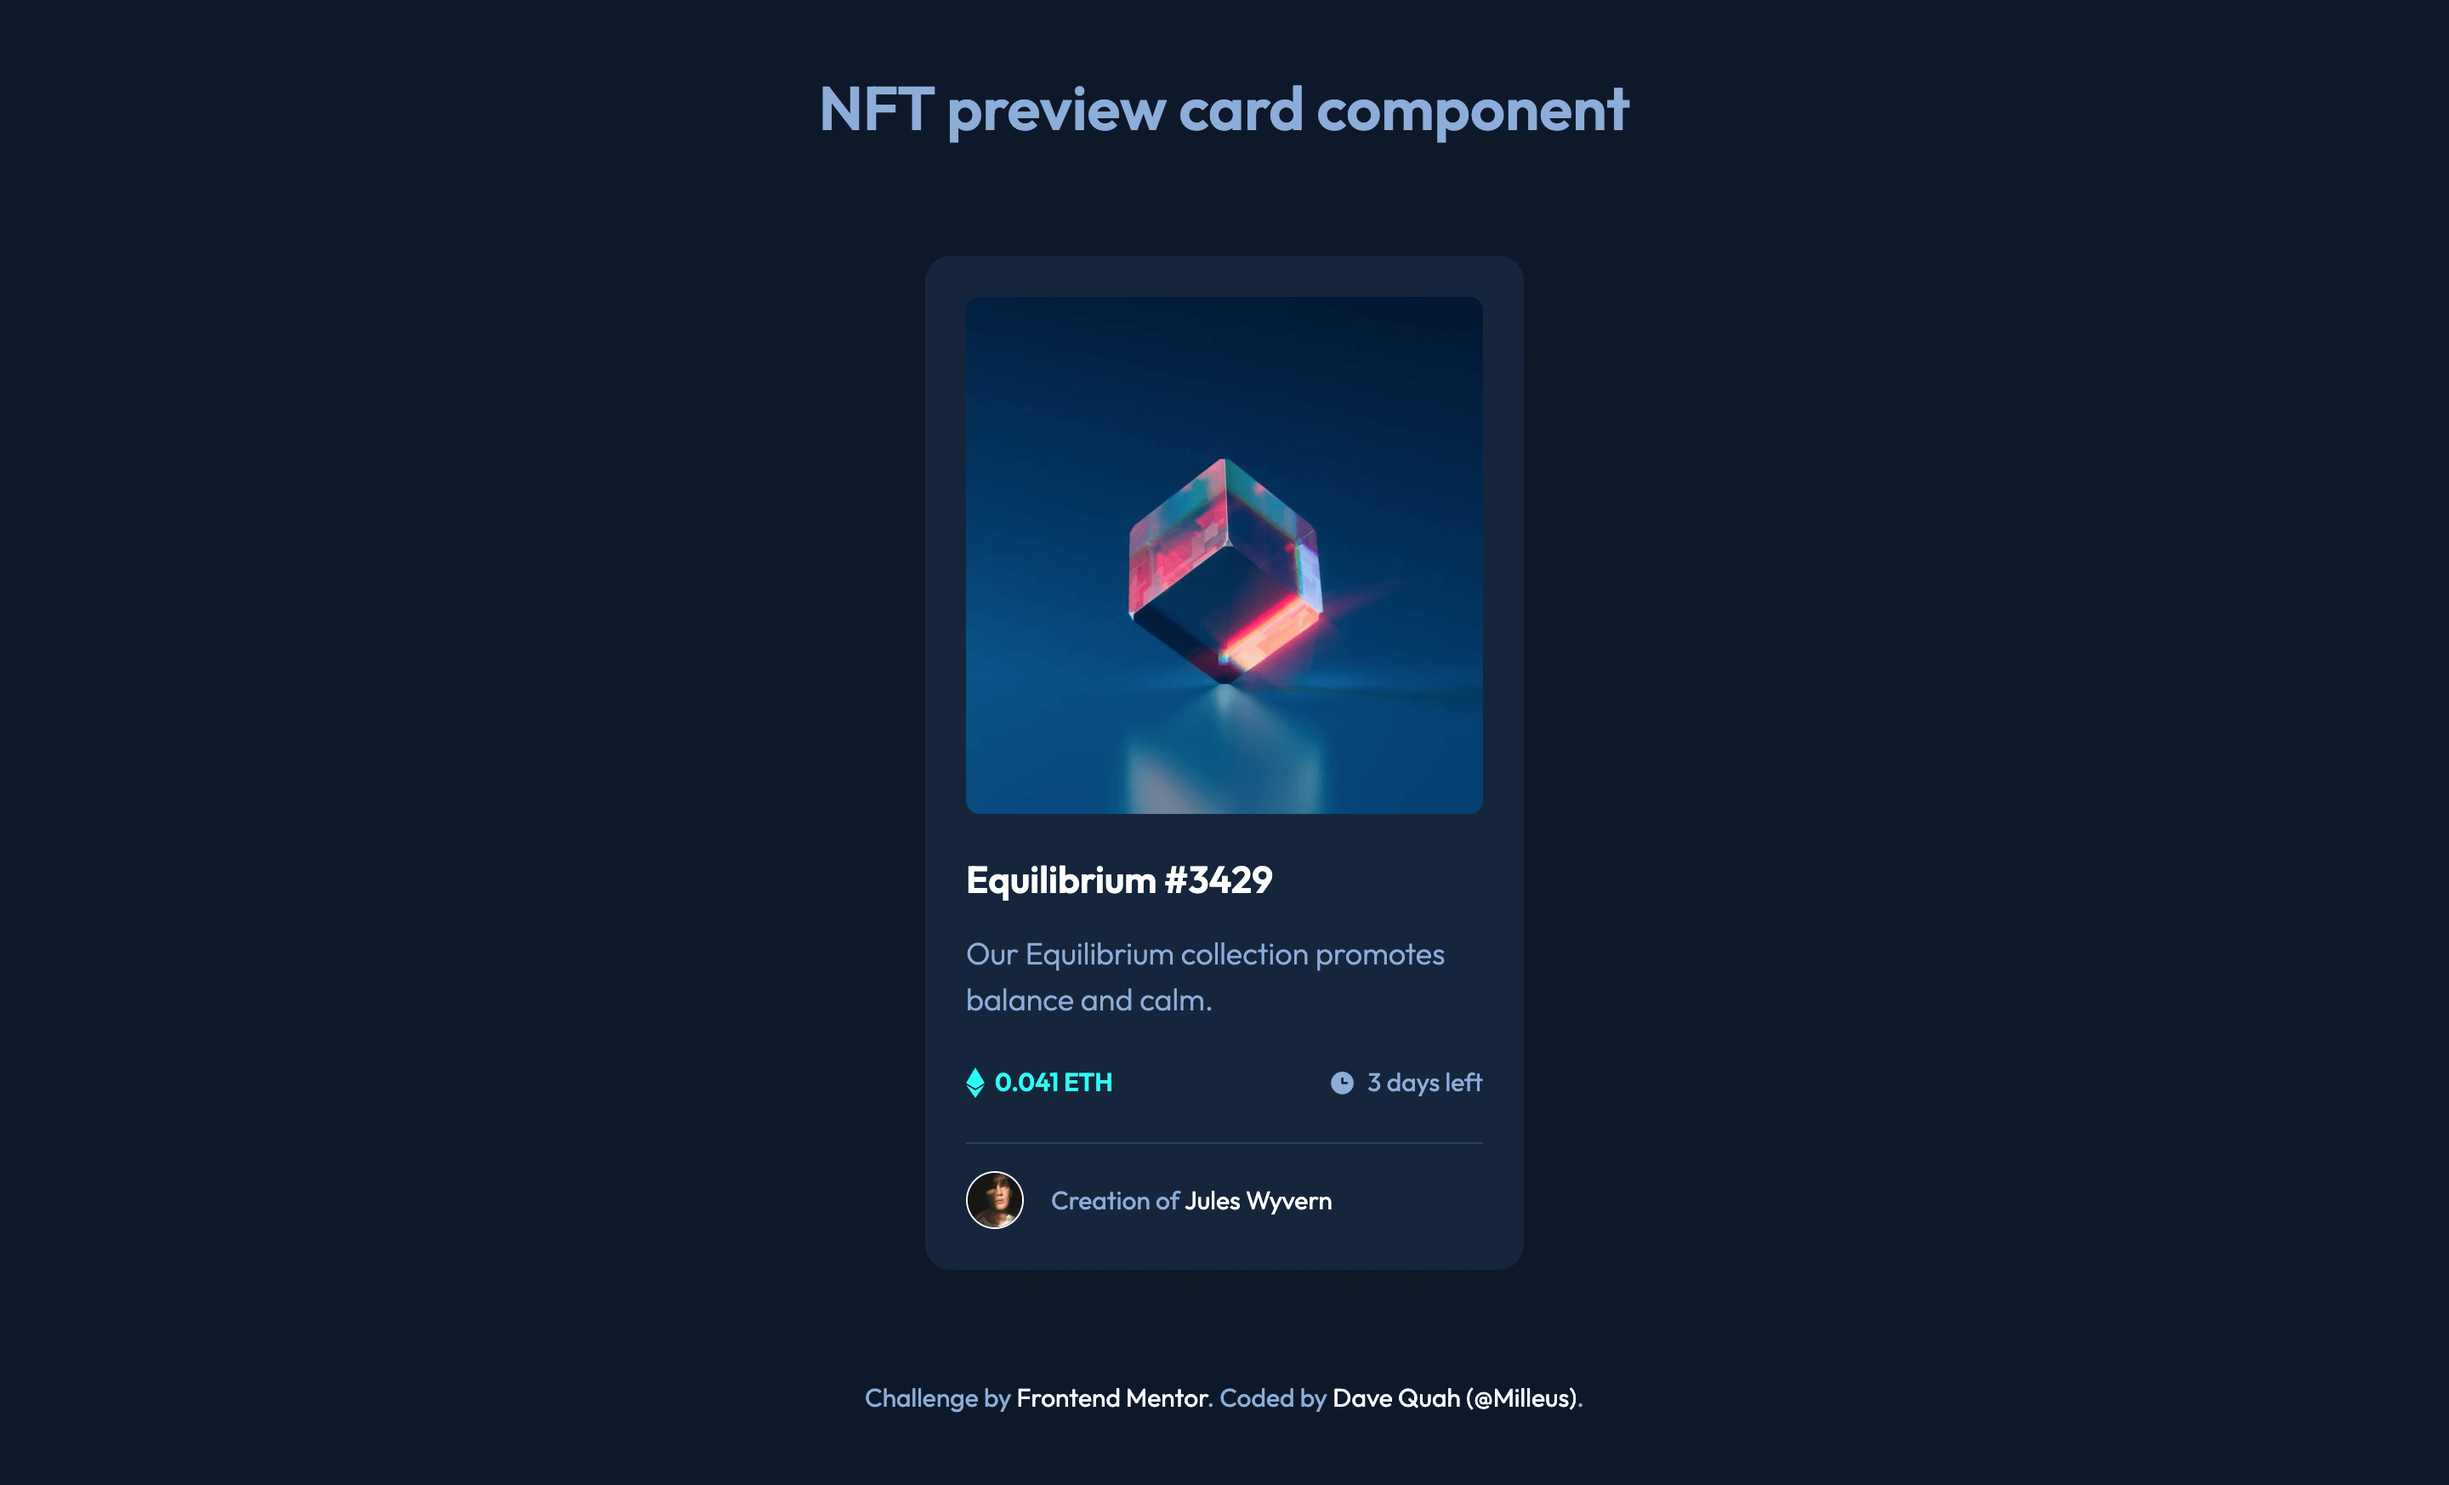
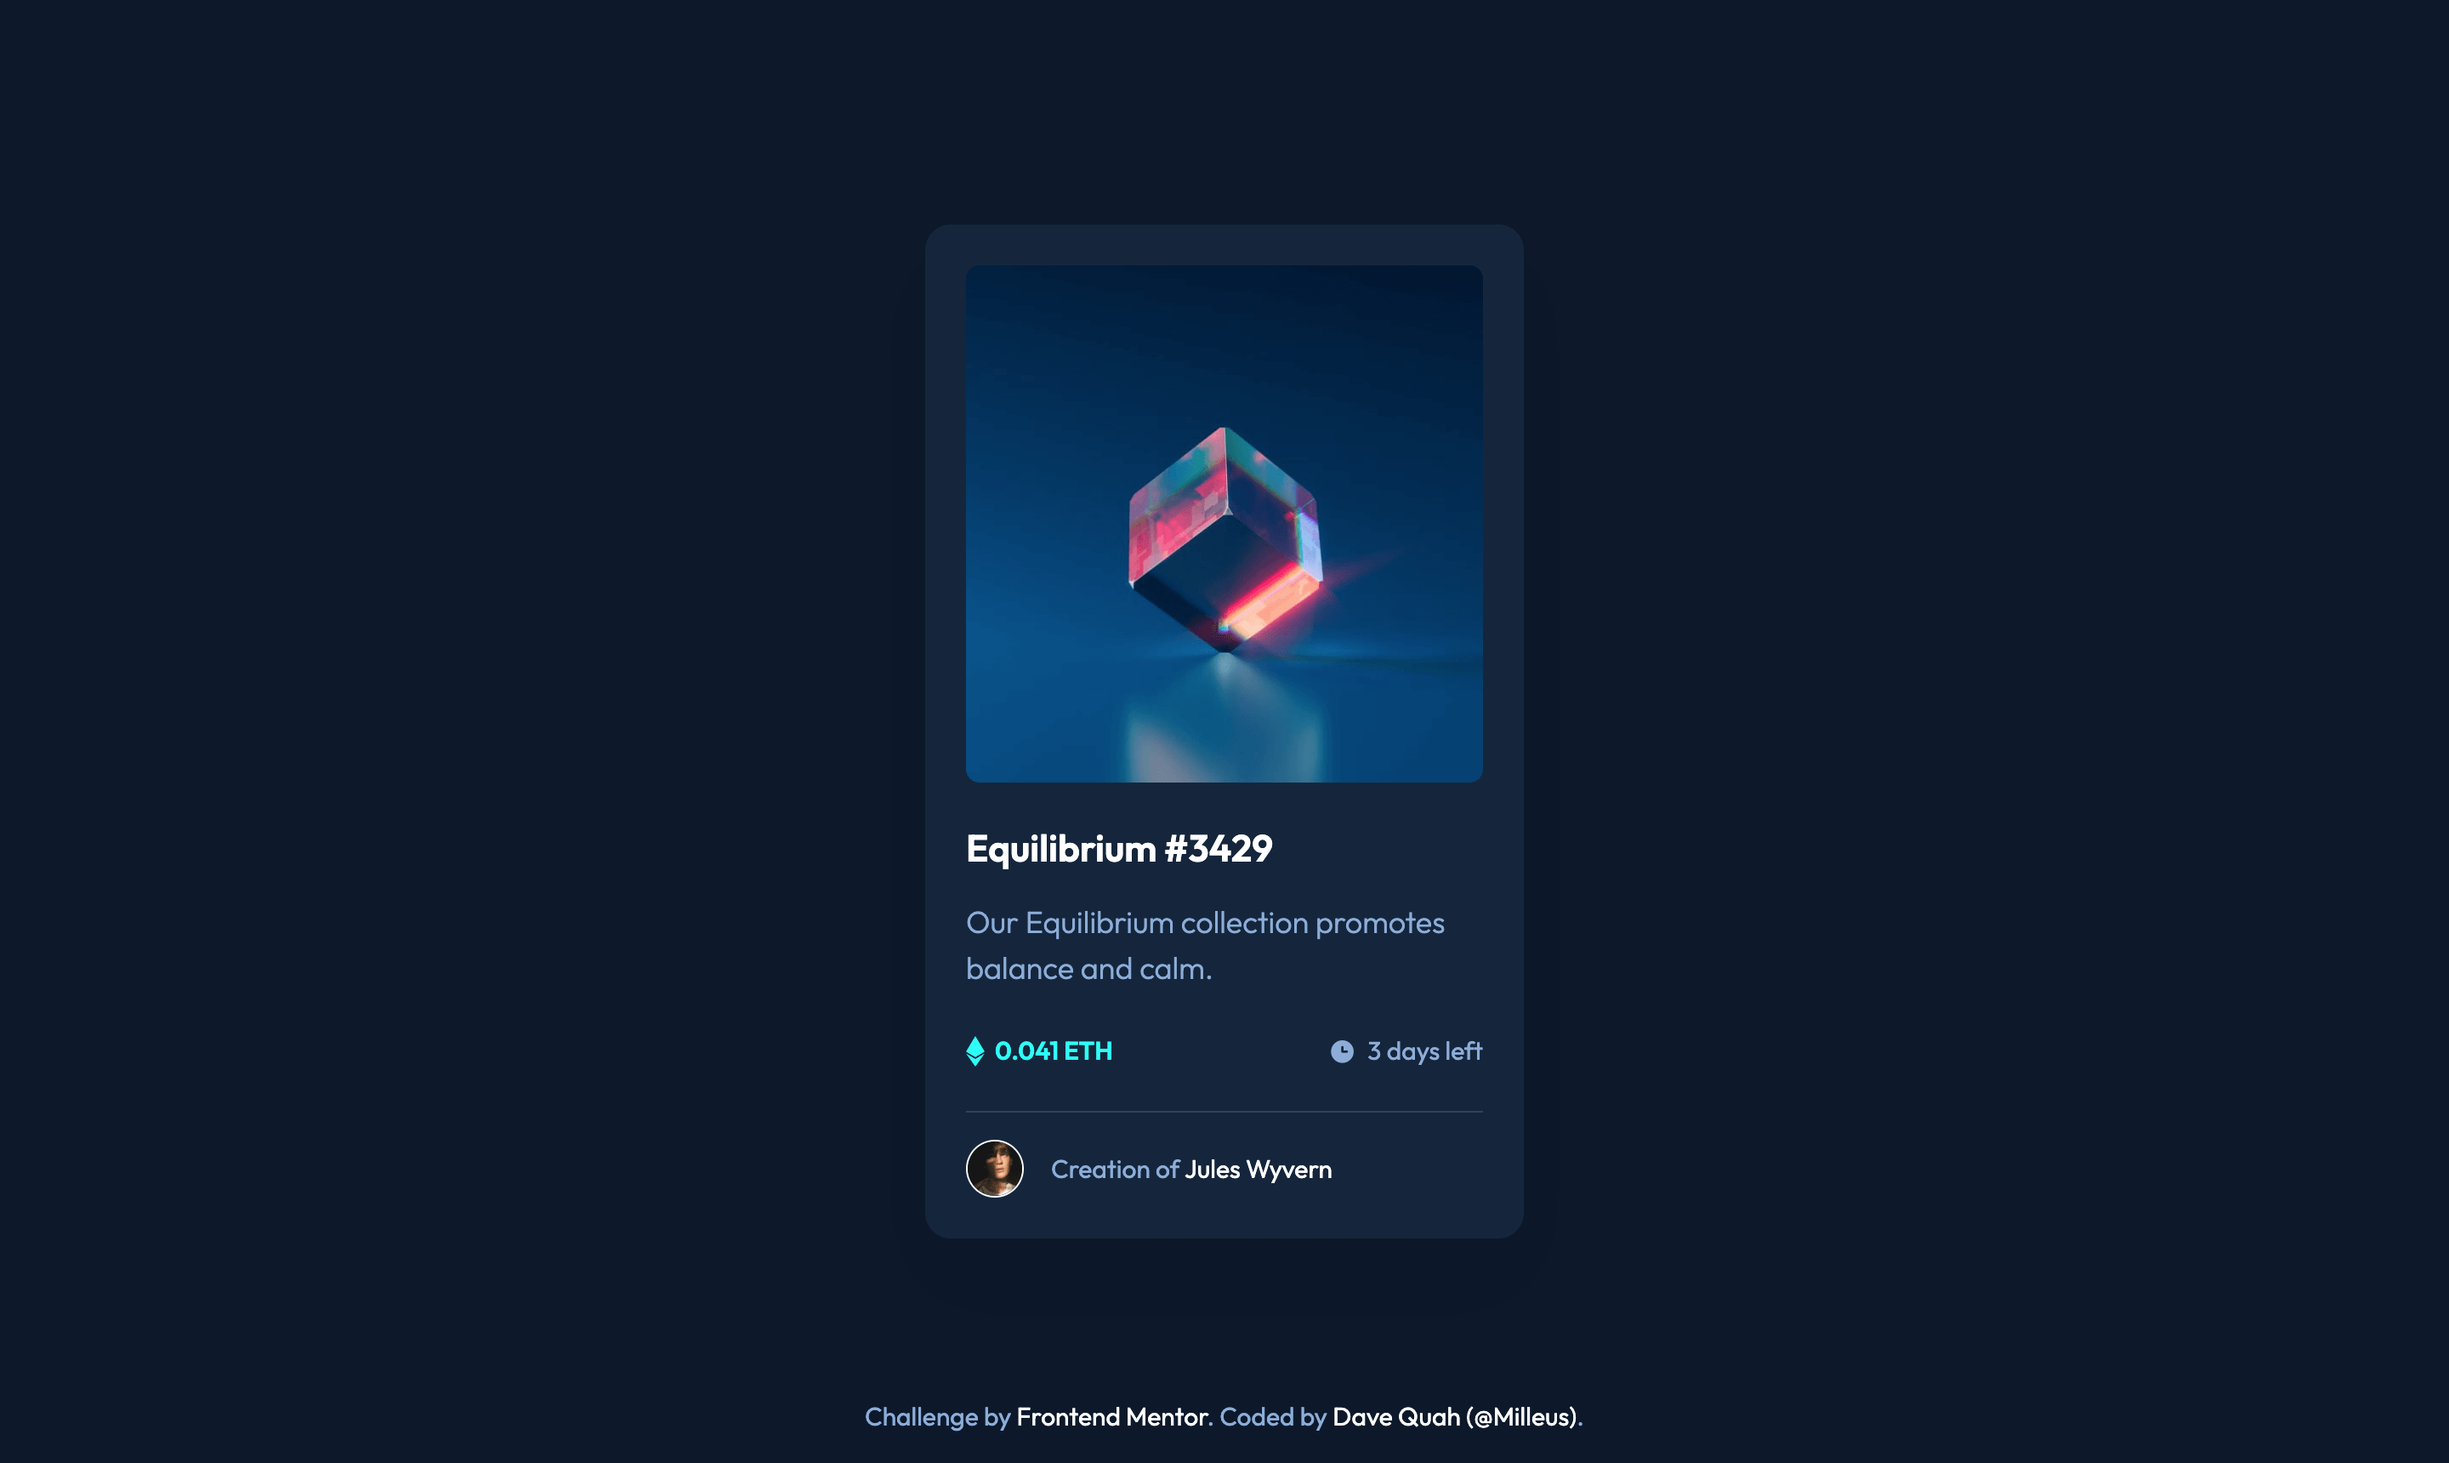
refactor: remove header

diff --git a/index.html b/index.html
@@ -26,47 +26,46 @@
 </head>
 
 <body>
-  <header class="text-neutral-800 text-center my-16">
-    <h1>NFT preview card component</h1>
-  </header>
+  <div class="container grid">
+    <main>
+      <h1 class="sr-only">NFT preview card component</h1>
+      <div class="card bg-blue-800">
+        <button>
+          <span class="sr-only">View Equilibrium #3429</span>
+        </button>
 
-  <main>
-    <div class="card bg-blue-800">
-      <button>
-        <span class="sr-only">View Equilibrium #3429</span>
-      </button>
+        <h2 class="fs-600 fw-600 mt-24"><a href="#">Equilibrium #3429</a></h2>
+        <p class="fw-300 mt-12 md-mt-16">Our Equilibrium collection promotes balance and calm.</p>
 
-      <h2 class="fs-600 fw-600 mt-24"><a href="#">Equilibrium #3429</a></h2>
-      <p class="fw-300 mt-12 md-mt-16">Our Equilibrium collection promotes balance and calm.</p>
+        <div class="card-details flex mt-16 md-mt-24">
+          <div class="flex">
+            <img src="/assets/icon-ethereum.svg" alt="">
+            <p class="fs-300 fw-600 text-cyan-400">0.041 ETH</p>
+          </div>
 
-      <div class="card-details flex mt-16 md-mt-24">
-        <div class="flex">
-          <img src="/assets/icon-ethereum.svg" alt="">
-          <p class="fs-300 fw-600 text-cyan-400">0.041 ETH</p>
+          <div class="flex">
+            <img src="/assets/icon-clock.svg" alt="">
+            <time class="fs-300 fw-500" datetime="PT72H00M">3 days left</time>
+          </div>
         </div>
 
-        <div class="flex">
-          <img src="/assets/icon-clock.svg" alt="">
-          <time class="fs-300 fw-500" datetime="PT72H00M">3 days left</time>
+        <div class="card-line mt-16 md-mt-24"></div>
+
+        <div class="card-creator flex mt-16">
+          <img src="/assets/image-avatar.png" alt="Jules Wyvern">
+          <p class="fs-300 fw-500">Creation of <a href="#">Jules Wyvern</a></p>
         </div>
       </div>
+    </main>
 
-      <div class="card-line mt-16 md-mt-24"></div>
-
-      <div class="card-creator flex mt-16">
-        <img src="/assets/image-avatar.png" alt="Jules Wyvern">
-        <p class="fs-300 fw-500">Creation of <a href="#">Jules Wyvern</a></p>
-      </div>
-    </div>
-  </main>
-
-  <footer class="text-neutral-800 text-center fs-300 fw-500 my-16">
-    <p>
-      Challenge by <a href="https://www.frontendmentor.io?ref=challenge" target="_blank" rel="noopener">Frontend
-        Mentor</a>.
-      Coded by <a href="https://www.frontendmentor.io/profile/Milleus">Dave Quah (@Milleus)</a>.
-    </p>
-  </footer>
+    <footer>
+      <p class="text-neutral-800 text-center fs-300 fw-500">
+        Challenge by <a href="https://www.frontendmentor.io?ref=challenge" target="_blank" rel="noopener">Frontend
+          Mentor</a>.
+        Coded by <a href="https://www.frontendmentor.io/profile/Milleus">Dave Quah (@Milleus)</a>.
+      </p>
+    </footer>
+  </div>
 </body>
 
 </html>

diff --git a/global.css b/global.css
@@ -61,14 +61,11 @@ body {
   min-height: 100vh;
   text-rendering: optimizeSpeed;
   line-height: 1.5;
-  display: grid;
-  place-items: center;
   font-family: var(--ff-sans);
   font-size: var(--fs-400);
   font-weight: var(--fw-400);
   color: hsl(var(--clr-blue-400));
   background-color: hsl(var(--clr-blue-900));
-  margin-inline: 1.5rem;
 }
 
 a {
@@ -123,7 +120,12 @@ h3 {
 /* ------------------- */
 .flex {
   display: flex;
-  gap: var(--gap, 1rem);
+  gap: var(--flex-gap, 1rem);
+}
+
+.grid {
+  display: grid;
+  gap: var(--grid-gap, 1rem);
 }
 
 /* ------------------- */
@@ -169,9 +171,6 @@ h3 {
   font-weight: var(--fw-600);
 }
 
-.my-16 {
-  margin-block: 1rem;
-}
 .mt-12 {
   margin-top: 0.75rem;
 }
@@ -197,6 +196,27 @@ h3 {
 /* ------------------- */
 /* Block               */
 /* ------------------- */
+.container {
+  place-items: center;
+  grid-template-rows: 1fr auto 1fr;
+  grid-template-areas:
+    "header"
+    "main"
+    "footer";
+  min-height: 100vh;
+  min-width: fit-content;
+  padding: 1rem 1.5rem;
+}
+
+.container > main {
+  grid-area: main;
+}
+
+.container > footer {
+  grid-area: footer;
+  align-self: end;
+}
+
 .card {
   width: min(100%, 20rem);
   padding: 1.5rem;
@@ -244,7 +264,7 @@ h3 {
 }
 
 .card > .card-details > div {
-  --gap: 0.375rem;
+  --flex-gap: 0.375rem;
   align-items: center;
 }
 
